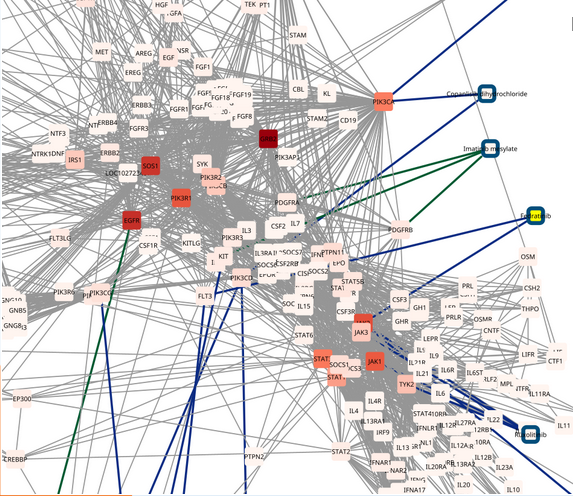
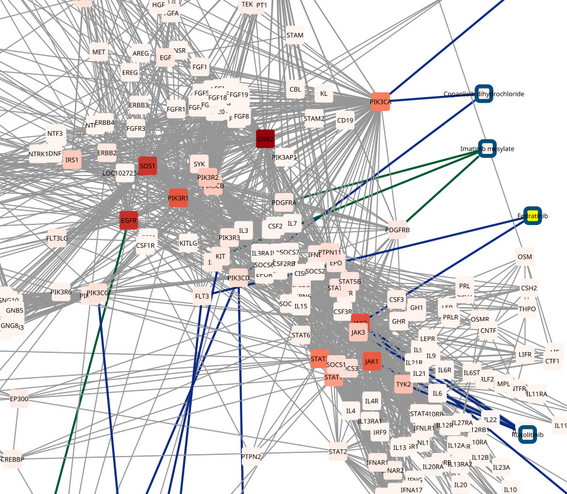
fixes graph detail images

diff --git a/project2/README.md b/project2/README.md
@@ -50,9 +50,9 @@ No modelo lógico do grafo, há duas relações possíveis entre proteínas: a a
 
 ### Relações entre fármacos e proteínas/genes
 
-Foram feitos dois grafos mostrando as relações entre os fármacos e os genes e proteínas relacionados à LLA. Para a escolha dos genes no primeiro grafo, foram tomados todos os genes e suas relações envolvidas nas vias [JAK/STAT](https://version-12-0.string-db.org/cgi/network?networkId=bAgBdUuRK1mZ), [RTK-RAS](https://version-12-0.string-db.org/cgi/network?networkId=bWVfL0O5Pasj) e [PI3K](https://version-12-0.string-db.org/cgi/network?networkId=bBdWJrM6gEIf), pelo String DB. Tais vias são as mais relacionadas à doença segundo [[4]](#4). A escolha dos genes no segundo grafo vêm da lista dos 1000 genes mais heterogêneos segundo uma análise de mean absolute deviation (MAD), com relações entre eles também encontradas pelo String DB. A relação dos fármacos com os genes também foi obtida segundo ....
+Foram feitos dois grafos mostrando as relações entre os fármacos e os genes e proteínas relacionados à LLA. Para a escolha dos genes no primeiro grafo, foram tomados todos os genes e suas relações envolvidas nas vias [JAK/STAT](https://version-12-0.string-db.org/cgi/network?networkId=bAgBdUuRK1mZ), [RTK-RAS](https://version-12-0.string-db.org/cgi/network?networkId=bWVfL0O5Pasj) e [PI3K](https://version-12-0.string-db.org/cgi/network?networkId=bBdWJrM6gEIf), pelo String DB. Tais vias são as mais relacionadas à doença segundo [[4]](#4). A escolha dos genes no segundo grafo vêm da lista dos 1000 genes mais heterogêneos segundo uma análise de mean absolute deviation (MAD), com relações entre eles também encontradas pelo String DB. A relação dos fármacos com os genes foi obtida segundo ....
 
-Nos grafos a seguir, os nós com contorno azul são fármacos, enquanto os nós sem esse contorno representam genes/proteínas. As arestas cinzas são relações entre proteínas, enquanto as arestas azuis e verdes são relações em que o fármaco é inibidor ou antagonista da proteína a que se liga, respectivamente.
+Nos grafos a seguir, os nós com contorno azul são fármacos, enquanto os nós sem esse contorno representam genes/proteínas. As arestas cinzas são relações entre proteínas, enquanto as arestas azuis e verdes são relações em que o fármaco é inibidor ou antagonista da proteína a que se liga, respectivamente. Os nós estão coloridos de tons mais fortes de vermelho quanto maior sua intermediação (betweeness centrality).
 
 #### Grafo 1: Relação de fármacos com genes das principais vias moleculares
 
@@ -123,6 +123,10 @@ ROMI        | Romidepsin                 | HDAC1; HDAC2
 SELI        | Selinexor (KPT-330)        | XPO1
 VINC        | Vincristine (sulfate)      | TUBB
 VORI        | Vorinostat (SAHA)          | HDAC1; HDAC2; HDAC3; HDAC6
+
+### Cluster de genes mais importantes para subtipo e prognóstico
+
+Texto vai aqui
 
 <!-- ## Evolução do projeto (Não obrigatório) -->
 
